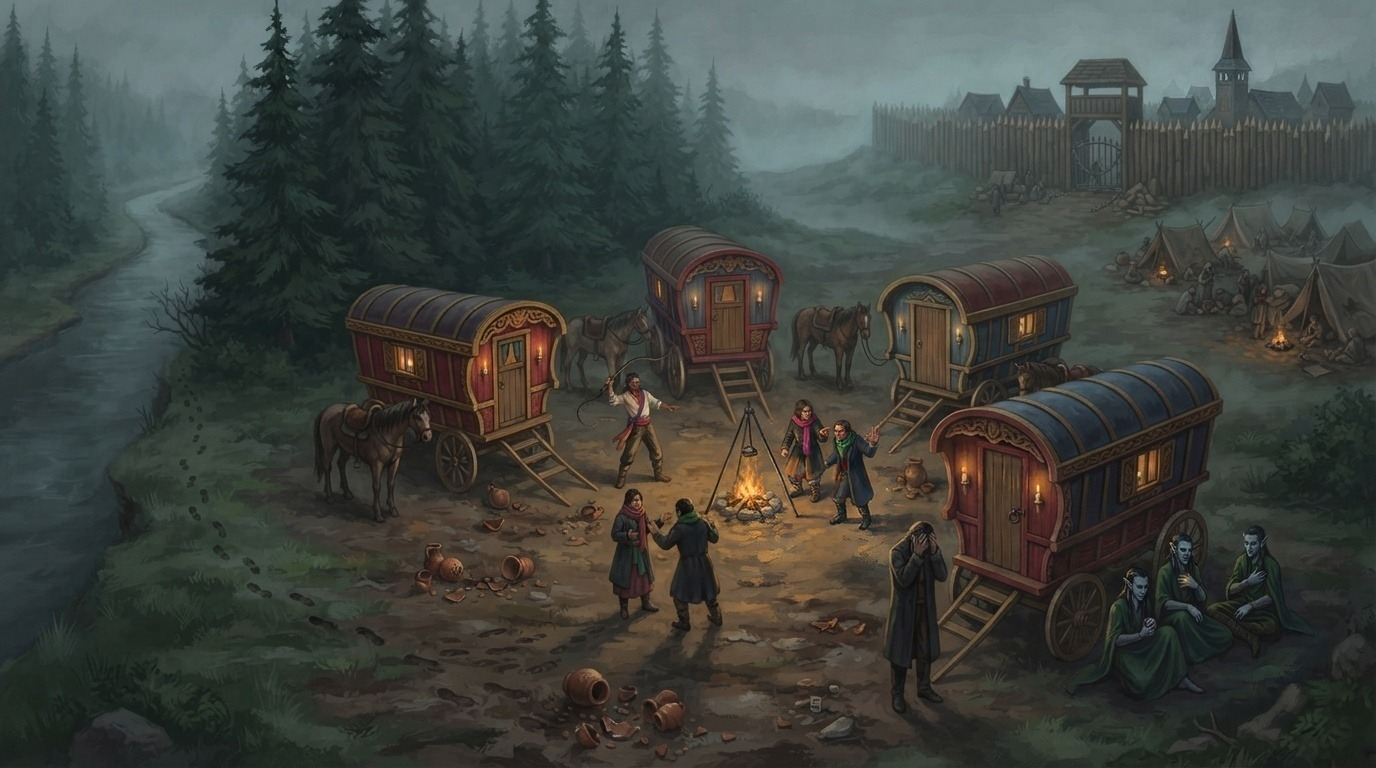
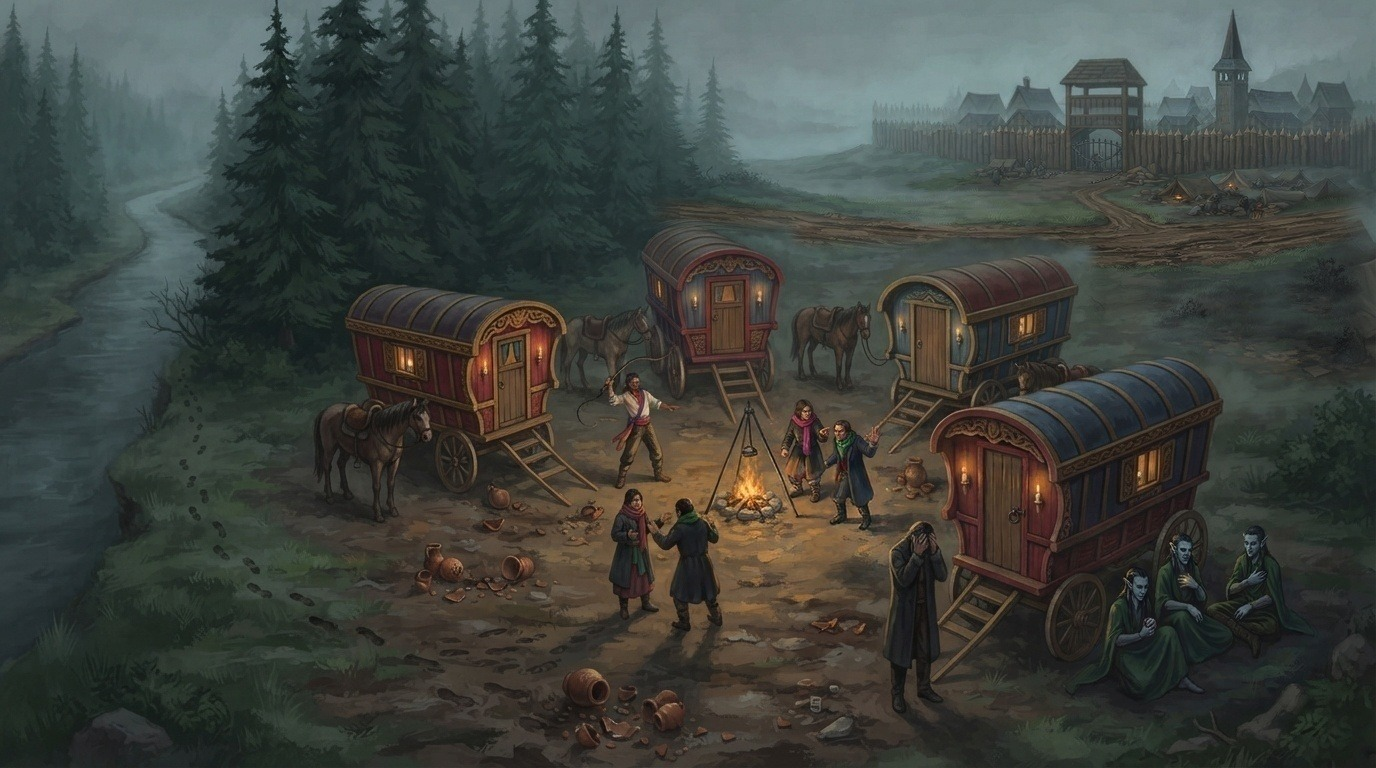
Vistani camp picture: main road between the camp and Vallaki, refugees farther off
Chris asked for the road to Vallaki between the two camps and more distance
between them. Region edit, then an independent check caught a ghost wagon
roof, removed with a second small edit.

Claude-Session: https://claude.ai/code/session_01U8i5qYc49QPDXpg7qZxd9E

Changed region(s): [[0.5, 0.1875, 1.0, 0.4688], [0.625, 0.125, 0.9688, 0.1875], [0.5938, 0.1875, 0.625, 0.2188]]

diff --git a/content/wiki/vallaki-vistani-camp.md b/content/wiki/vallaki-vistani-camp.md
@@ -9,7 +9,7 @@ source: Compiled from the adventure log, with a description written for the site
 
 ## Description
 
-![The Vistani camp by Vallaki at dusk: painted wagons round a fire, broken pots, a whip cracking, dusk elves sitting apart, the Luna River to the west and Vallaki's palisade with refugee tents beyond](/images/vallaki-vistani-camp-ai.jpg)
+![The Vistani camp by Vallaki at dusk: painted wagons round a fire, broken pots, a whip cracking, dusk elves sitting apart, the Luna River to the west, the main road, and Vallaki's palisade with refugee tents beyond](/images/vallaki-vistani-camp-ai.jpg)
 
 *AI-generated image (Google Gemini, November 2026), drawn from this page and the session logs. Not official art.*
 
